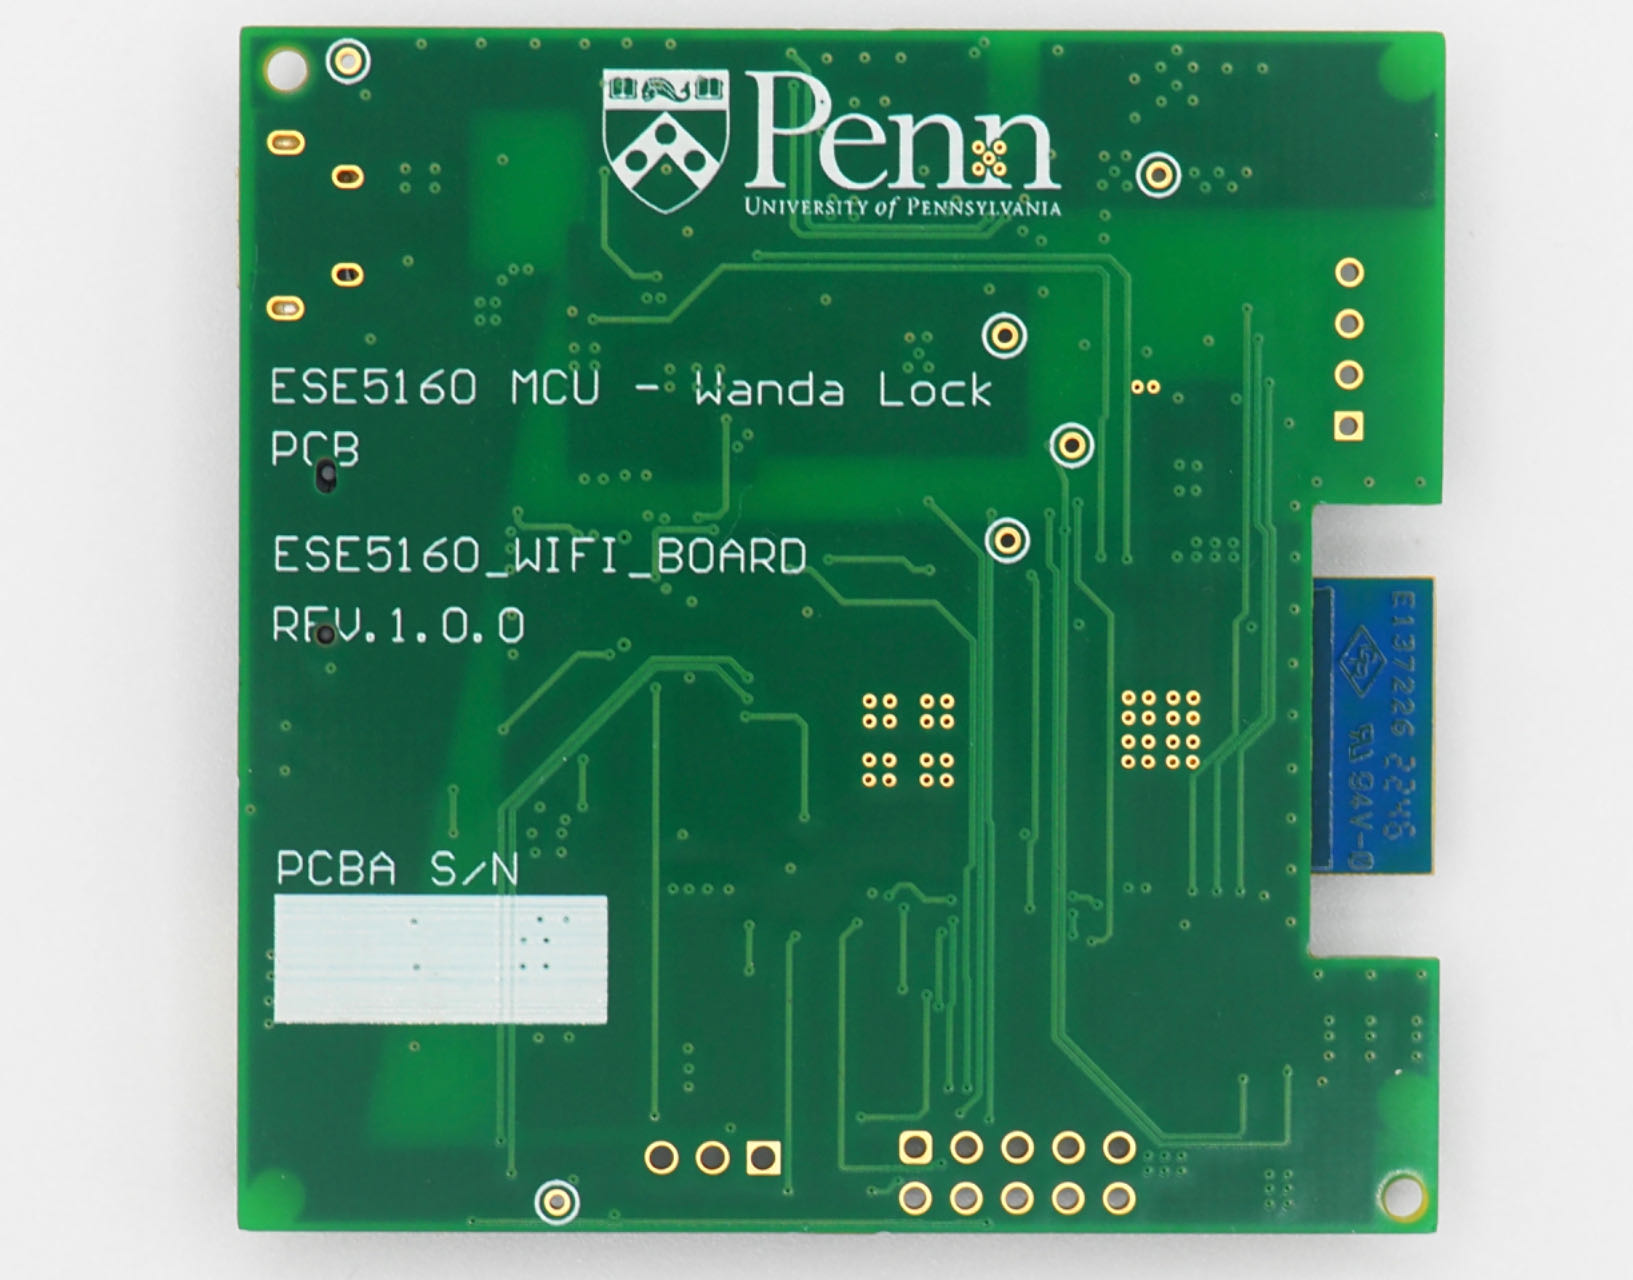
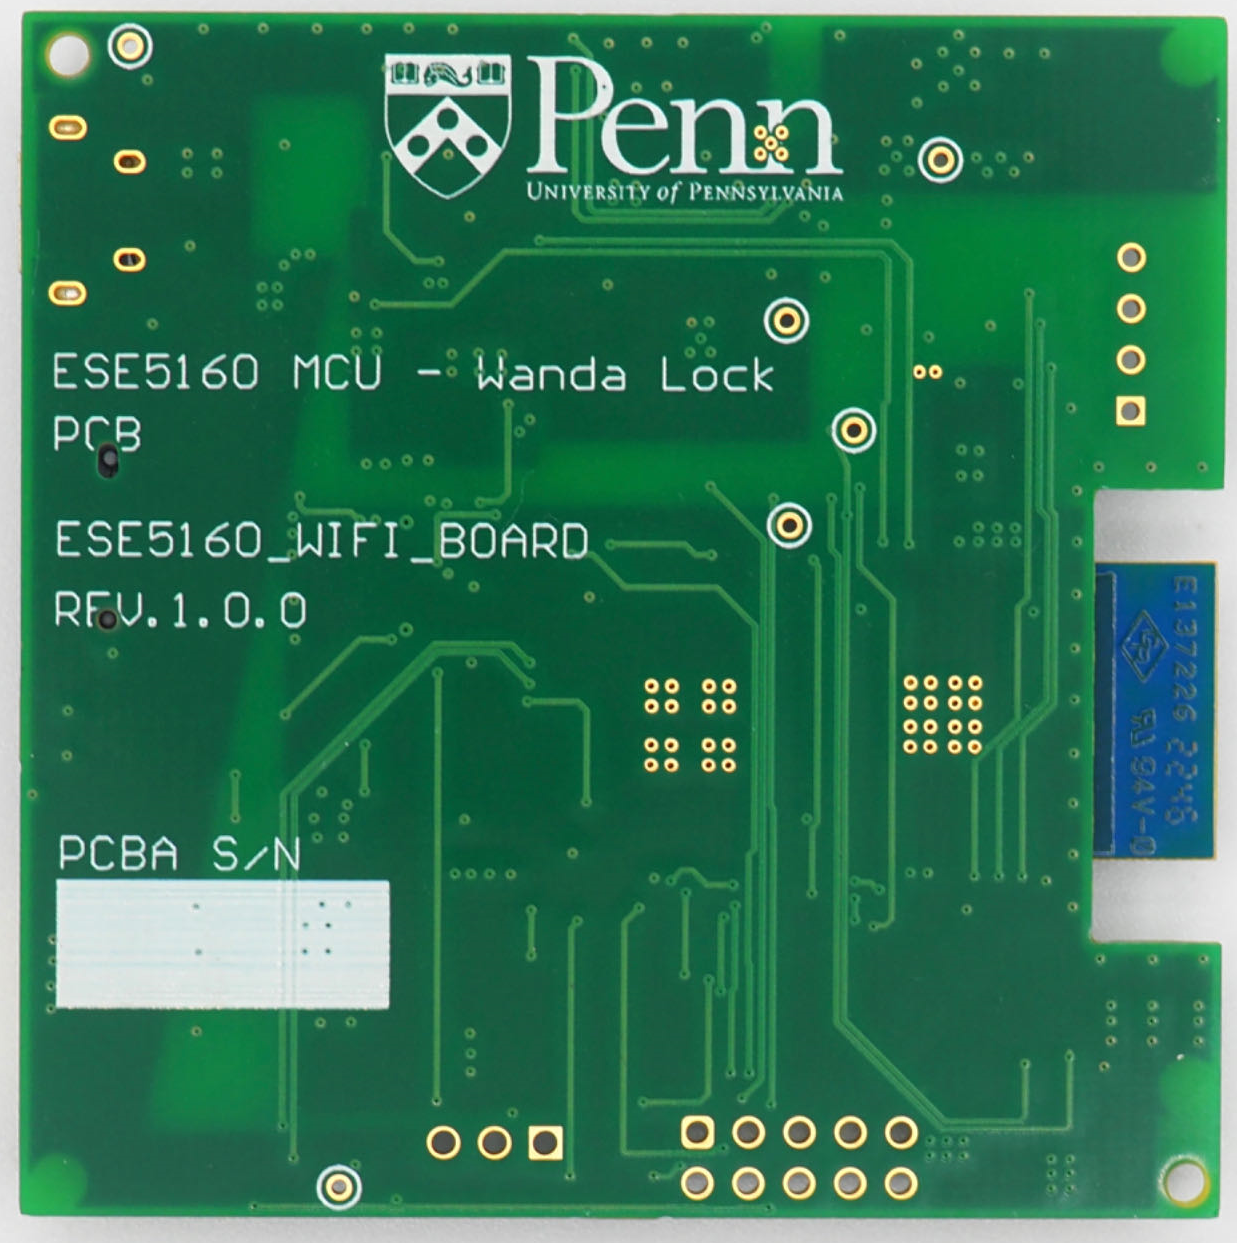
Adjusted height of images

diff --git a/README.md b/README.md
@@ -117,7 +117,7 @@ Take us as an example, our QR code reader sometimes goes wrong, so we have to re
 <img src="./graphs/casework_front.png " style="height: 500px;" width="45%"></img> <img src="./graphs/casework_side.png" style="height: 550px;" width="45%"></img> <img src="./graphs/casework_back.png" style="height: 500px;" width="45%"></img> <img src="./graphs/PCB_demo_day.png" style="height: 500px;" width="45%"></img> 
 
 ### PCBA
-<img src="./graphs/PCB_2D.png" width="45%" style="height: 450px;"></img> <img src="./graphs/PCB_3D_top.png" width="45%" style="height: 450px;"></img> <img src="./graphs/PCB_3D_bottom.png" width="45%" style="height: 350px;">   <img src="./graphs/PCB_top_view.png" width="45%" style="height: 350px;"></img> <img src="./graphs/PCB_bottom_view.png" width="45%" style="height: 350px;"></img> </img><img src="./graphs/thermal_image.png" width="45%" style="height: 350px;"></img>
+<img src="./graphs/PCB_2D.png" width="45%" style="height: 450px;"></img> <img src="./graphs/PCB_3D_top.png" width="45%" style="height: 450px;"></img> <img src="./graphs/PCB_3D_bottom.png" width="45%" style="height: 400px;">   <img src="./graphs/PCB_top_view.png" width="45%" style="height: 400px;"></img> <img src="./graphs/PCB_bottom_view.png" width="45%" style="height: 400px;"></img> </img><img src="./graphs/thermal_image.png" width="45%" style="height: 400px;"></img>
 
 ### Node-RED
 <img src="./graphs/guest_ui.png" width="45%" style="height: 350px;"></img> <img src="./graphs/owner_ui.png" width="45%" style="height: 350px;"></img> <img src="./graphs/OTAFU_ui.png" width="45%" style="height: 350px;"></img> <img src="./graphs/MCU_sim_ui.png" width="45%" style="height: 350px;"></img> <img src="./graphs/node-red_test_ui.png" width="45%" style="height: 350px;"></img> <img src="./graphs/node-red_backend.png" width="45%" style="height: 350px;"></img> 
